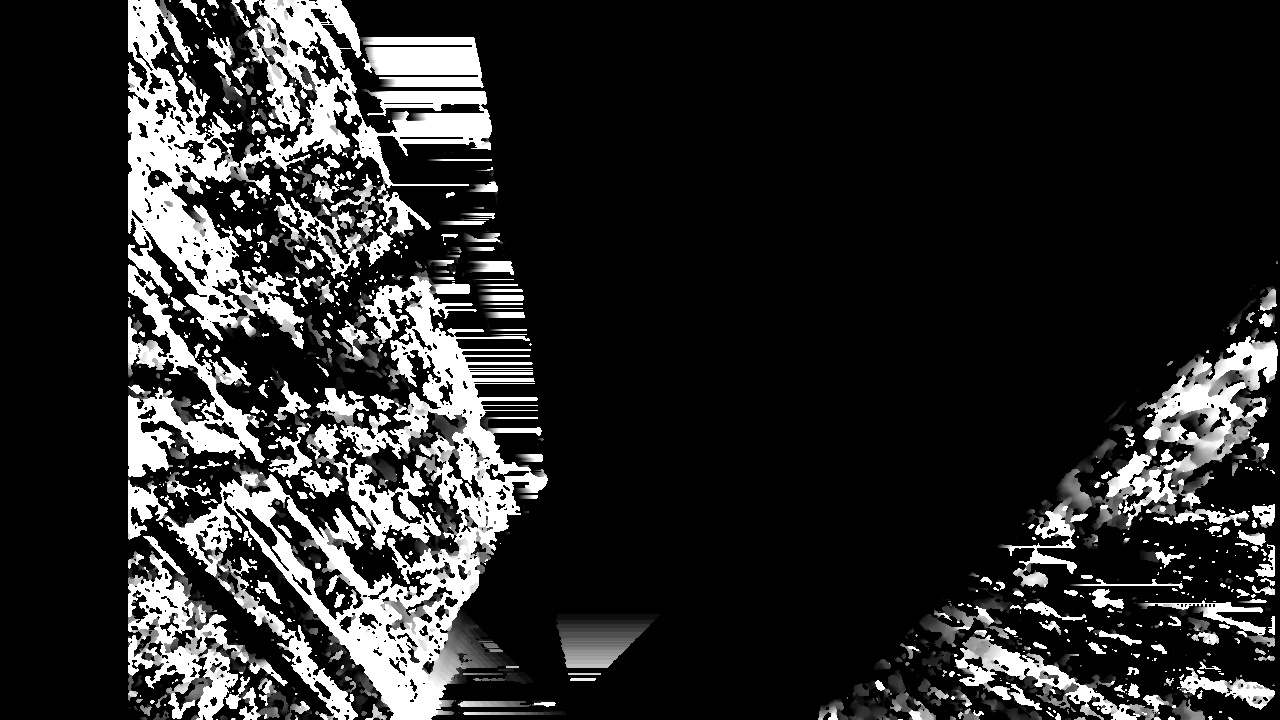
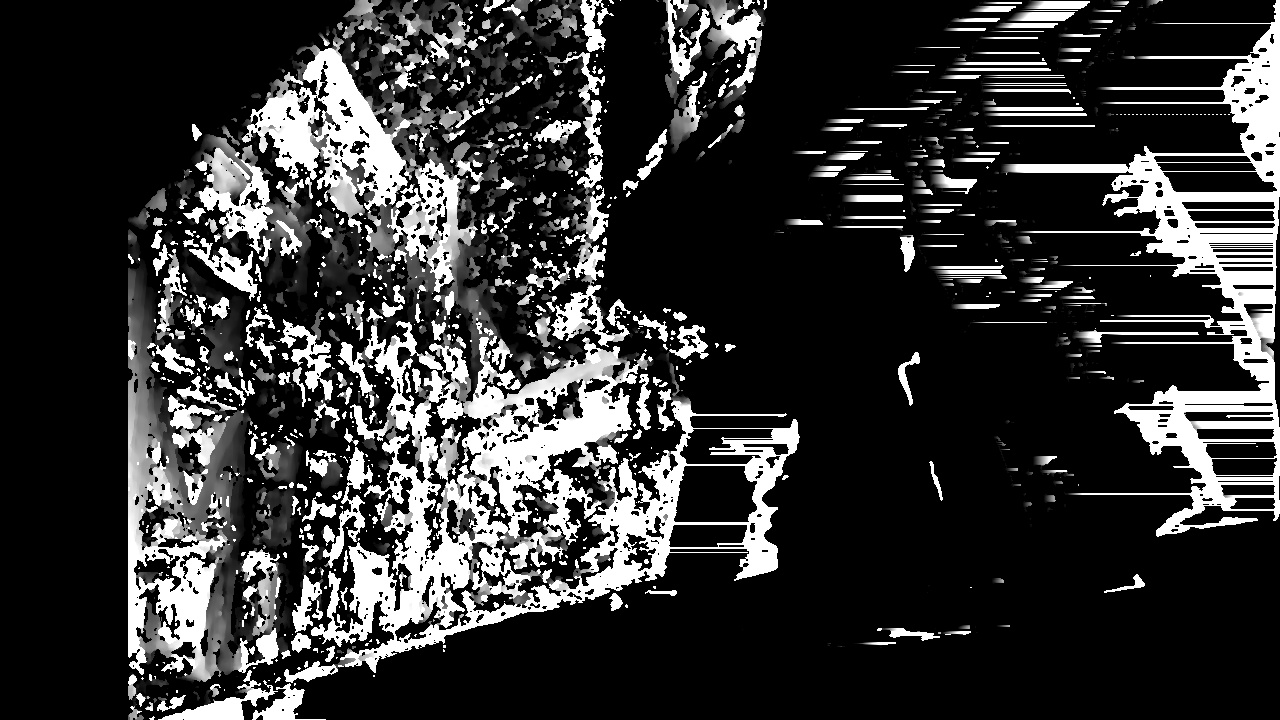
end interpolation

diff --git a/final_report_SfM/SfM2.py b/final_report_SfM/SfM2.py
@@ -2,6 +2,7 @@
 
 from pprint import pprint
 from tracemalloc import start
+from typing import Type
 import numpy as np
 import glob
 import cv2
@@ -102,8 +103,8 @@ def interpolate(i, imgL, imgR, disparity_raw):
     img_interp = np.zeros_like(imgL)  # 描画のキャンバスを用意
     for y in range(imgL.shape[0]):  # 画像の縦方向
         for x1 in range(imgL.shape[1]):  # 画像の横方向
-            if y % 100 == 0 and x1 % 100 == 0:
-                print("current process: ", y, x1)
+            # if y % 100 == 0 and x1 % 100 == 0:
+            #     print("current process: ", y, x1)
             x2 = int(x1 - disparity_raw[y, x1])  # 左側画像に対応する点の右側座標を取得
             x_i = int((2 - i) * x1 + (i - 1) * x2)  # 左側画像と右側座標の間の位置を決定
             # 移動先が画像のサイズを超えていないか確認
@@ -140,11 +141,11 @@ for i,path in enumerate(images_path):
 
 images_path=images_path[start_no+1:]
 print("start with good image : ",last_good_image)
-
 # parameter
 K=np.array([[842.50011162,0.,578.89029916],[0.,801.01078582,246.00138272],[0.,0.,1.]])
 
 
+"""
 # 最初の1セット
 j=0
 for i in np.arange(1,len(images_path)):
@@ -178,19 +179,47 @@ for i in np.arange(1,len(images_path)):
         j=0
         good_images.append(images_path[i])
         cv2.imwrite(current_dir+f"/images/good_images/{img2_name}",img2)
-
+"""
 print(images_path)
 print(good_images)
 
 
+interpolated_images=sorted(glob.glob(current_dir+"/results/view_interpolation/*"))
 
 for i in range(len(good_images)-1):
     img1=cv2.imread(good_images[i])
     img2=cv2.imread(good_images[i+1])
     # view interpolationを実行
-    img_interp = interpolate(1.5,img1r, img2r, disparity_raw)
-    cv2.imwrite(current_dir+f"/results/view_interpolation/img_interp{1.5}.jpg", img_interp)
+    img1_no=int(os.path.basename(good_images[i])[:-4])
+    img2_no=int(os.path.basename(good_images[i+1])[:-4])
 
+    no_calc=False
+    for existing in interpolated_images:
+        if str(img1_no) in existing:
+            no_calc=True
+            print("already calculated : ",img1_no)
+            break
+
+    if no_calc:
+        continue            
+
+    diff=int((img2_no-img1_no)/10)
+    interpolate_list=[1.0,]
+    print(diff)
+    gap=1/diff
+    while interpolate_list[-1]+gap<1.991:
+        interpolate_list.append(interpolate_list[-1]+gap)
+    print(interpolate_list)
+    try:
+        img1,img2,img1r,img2r,disparity_raw,disparity=match_to_disparity(img1,img2)
+        for ratio in interpolate_list:
+            print(f"interpolation : img={img1_no} ratio={ratio}")
+            img_interp = interpolate(ratio,img1r, img2r, disparity_raw)
+            cv2.imwrite(current_dir+f"/results/view_interpolation/{img1_no}_{str(ratio)[0]}-{str(ratio)[2:4].ljust(2,'0')}.jpg", img_interp)
+    except TypeError:
+        print("### TYPE ERROR ###")
+    except cv2.error:
+        print("### CV2 ERROR ###")
 
 """
 for i in range(len(images_path)-1):
@@ -224,6 +253,16 @@ img1が前で、img2が後ろ
 ・できてなかったら
     img2は飛ばす
     img1は保持したまま、img2を次の画像にする
+
+
+
+view interpolationでgood imagesに入っていない画像を復元する
+
+00300.pngと00340.pngの間には,10,20,30の3枚があるはず。
+(340-300)/10-1=3
+1.0,1.25,1.5,1.75,2.0
+のはず。
+1/(1+3)=0.25
 
 """
 
